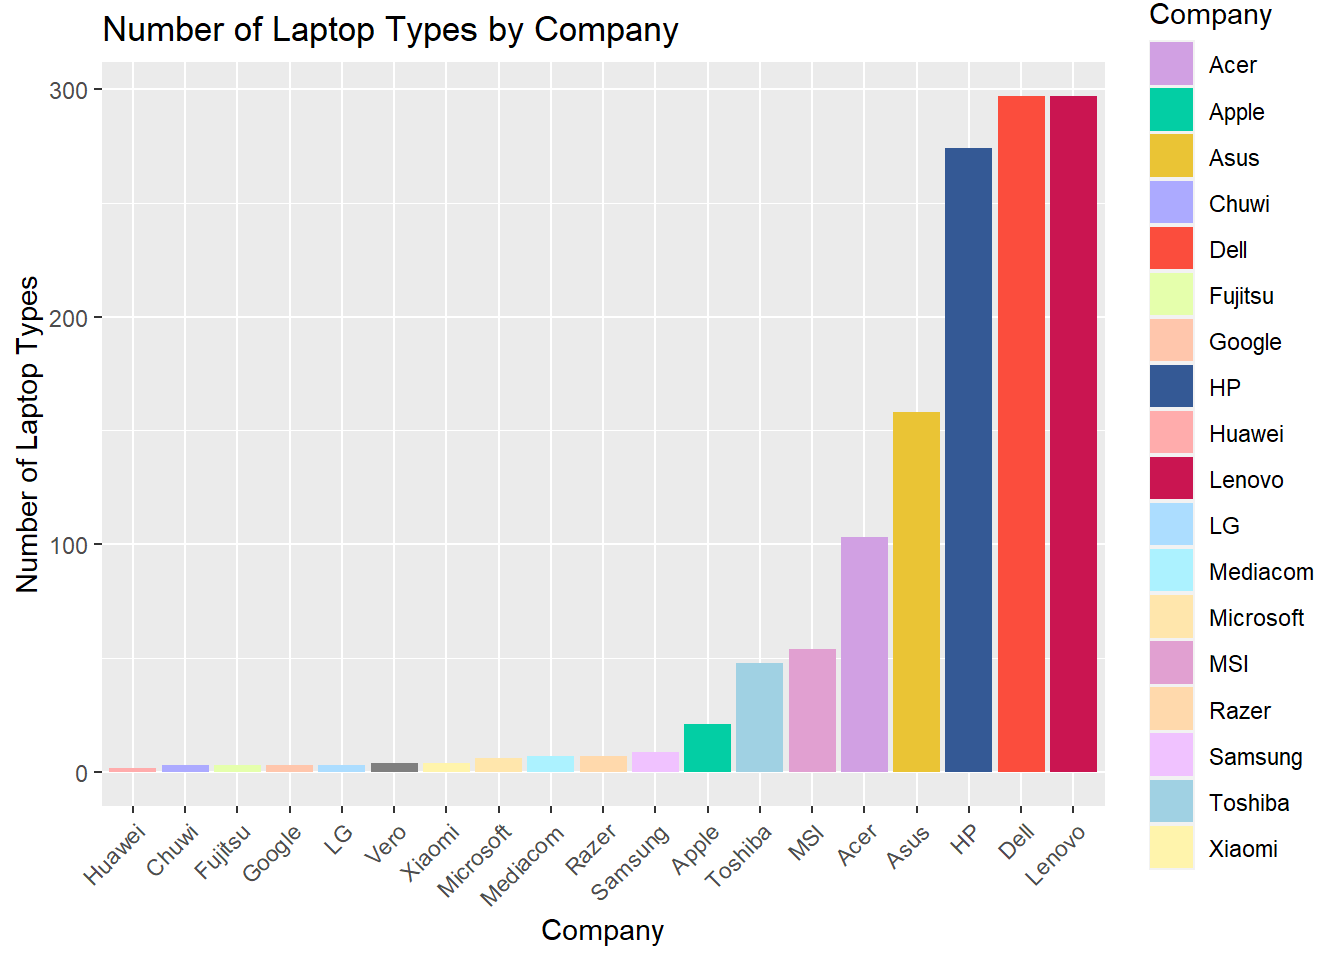
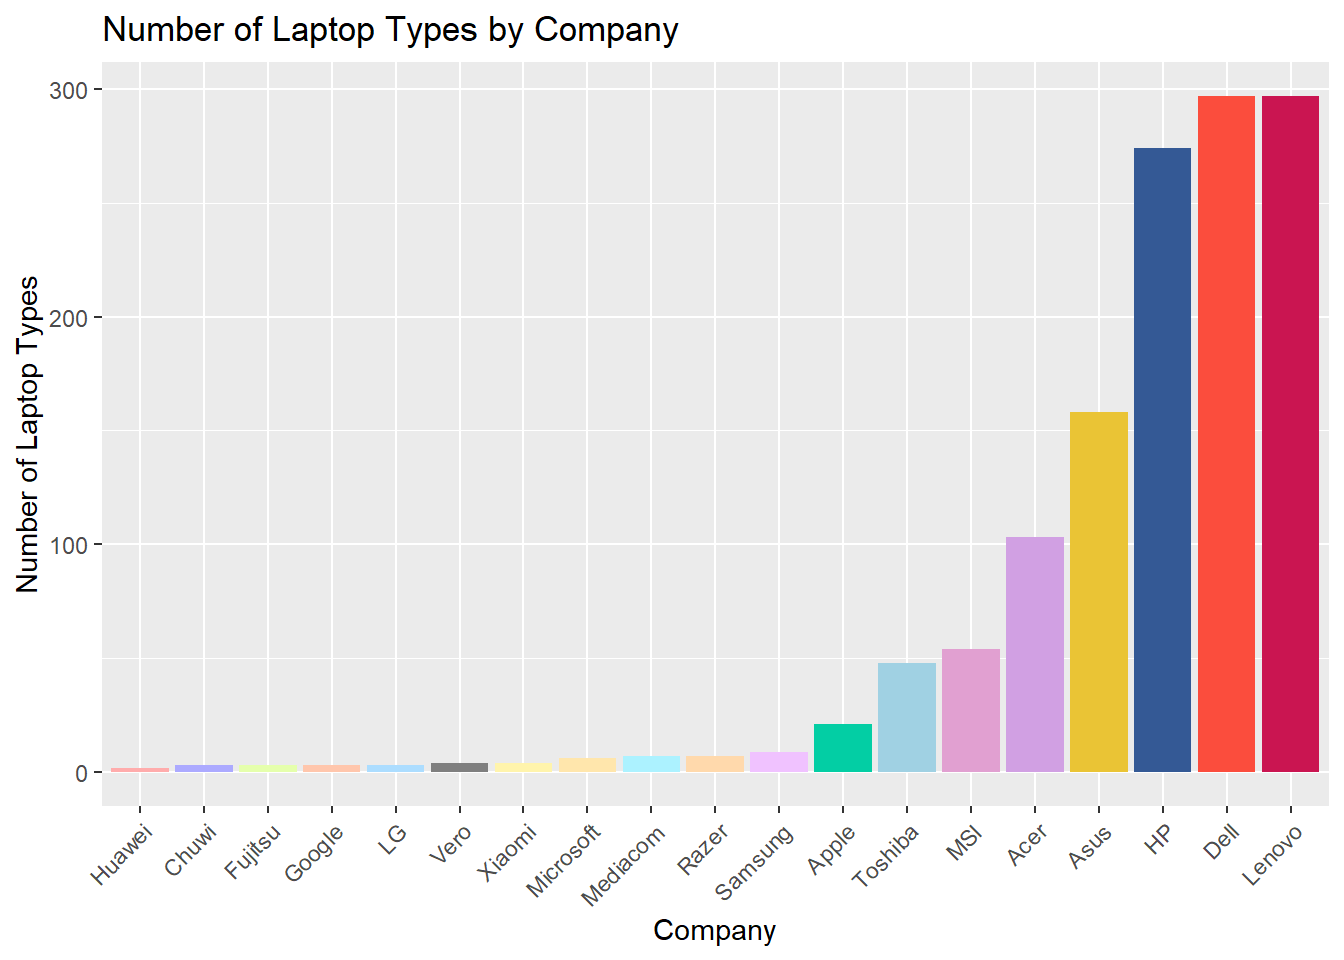
further edited

Changed region(s): [[0.1562, 0.0, 1.0, 0.9062], [0.0625, 0.8438, 0.8125, 1.0]]

diff --git a/docs/index.html b/docs/index.html
@@ -227,12 +227,6 @@ $ Price            &lt;dbl&gt; 71378.68, 47895.52, 30636.00, 135195.34, 96095.81
 </div>
 </div>
 <div class="cell">
-<div class="sourceCode cell-code" id="cb4"><pre class="sourceCode r code-with-copy"><code class="sourceCode r"><span id="cb4-1"><a href="#cb4-1" aria-hidden="true" tabindex="-1"></a><span class="co"># Use the new colors in your plots</span></span>
-<span id="cb4-2"><a href="#cb4-2" aria-hidden="true" tabindex="-1"></a><span class="fu">ggplot</span>(total_brands_and_laptops, <span class="fu">aes</span>(<span class="at">x =</span> <span class="fu">reorder</span>(Company, n), <span class="at">y =</span> n, <span class="at">fill =</span> Company)) <span class="sc">+</span></span>
-<span id="cb4-3"><a href="#cb4-3" aria-hidden="true" tabindex="-1"></a>  <span class="fu">geom_bar</span>(<span class="at">stat =</span> <span class="st">"identity"</span>) <span class="sc">+</span></span>
-<span id="cb4-4"><a href="#cb4-4" aria-hidden="true" tabindex="-1"></a>  <span class="fu">labs</span>(<span class="at">x =</span> <span class="st">"Company"</span>, <span class="at">y =</span> <span class="st">"Number of Laptop Types"</span>, <span class="at">title =</span> <span class="st">"Number of Laptop Types by Company"</span>) <span class="sc">+</span></span>
-<span id="cb4-5"><a href="#cb4-5" aria-hidden="true" tabindex="-1"></a>  <span class="fu">theme</span>(<span class="at">axis.text.x =</span> <span class="fu">element_text</span>(<span class="at">angle =</span> <span class="dv">45</span>, <span class="at">hjust =</span> <span class="dv">1</span>)) <span class="sc">+</span></span>
-<span id="cb4-6"><a href="#cb4-6" aria-hidden="true" tabindex="-1"></a>  <span class="fu">scale_fill_manual</span>(<span class="at">values =</span> brand_colors)</span></code><button title="Copy to Clipboard" class="code-copy-button"><i class="bi"></i></button></pre></div>
 <div class="cell-output-display">
 <p><img src="index_files/figure-html/unnamed-chunk-4-1.png" class="img-fluid" width="672"></p>
 </div>
@@ -264,6 +258,9 @@ $ Price            &lt;dbl&gt; 71378.68, 47895.52, 30636.00, 135195.34, 96095.81
 </section>
 <section id="apply-concepts" class="level2">
 <h2 class="anchored" data-anchor-id="apply-concepts">Apply concepts</h2>
+<div class="cell">
+<div class="sourceCode cell-code" id="cb4"><pre class="sourceCode r code-with-copy"><code class="sourceCode r"><span id="cb4-1"><a href="#cb4-1" aria-hidden="true" tabindex="-1"></a><span class="co">#talk about the difference in the ascending order of box plots and the ascending order of number of laptops produced by each company</span></span></code><button title="Copy to Clipboard" class="code-copy-button"><i class="bi"></i></button></pre></div>
+</div>
 <p>We observe some outliers in the data. In the above box plot, while the whiskers of each box vary, there are some data points that indiciate one or two abnormally expensive computers that lie beyond even the maximum value of the range of computers.</p>
 <p>For example, Lenovo produces one laptop that costs more than $3,000, unusual as their line of laptops usually range from less than $500 to less than $1,000. ASUS also produces two computers that cost around $1,500, despite its range of products largely falling under $1,000. We can also see that Apple and MSI are the most consistent in their pricings, as there are no outliers in their box plots. They also happen to have the highest mean prices for their laptops, alongside Toshiba.</p>
 <p>Below is the interactive boxplot that allows users to toggle between currencies of the prices, namely between IND (in which the original data came in), SGD and USD.</p>
